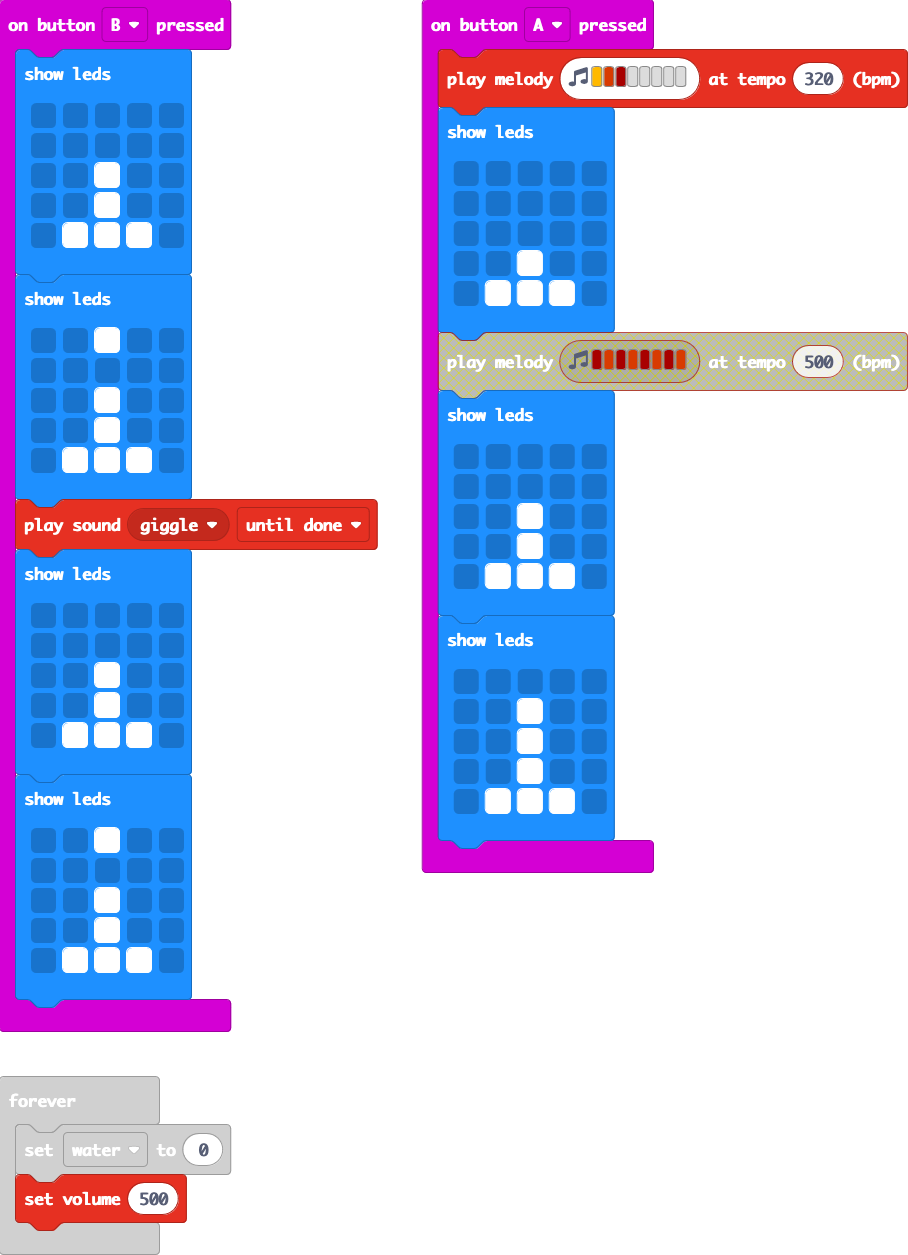
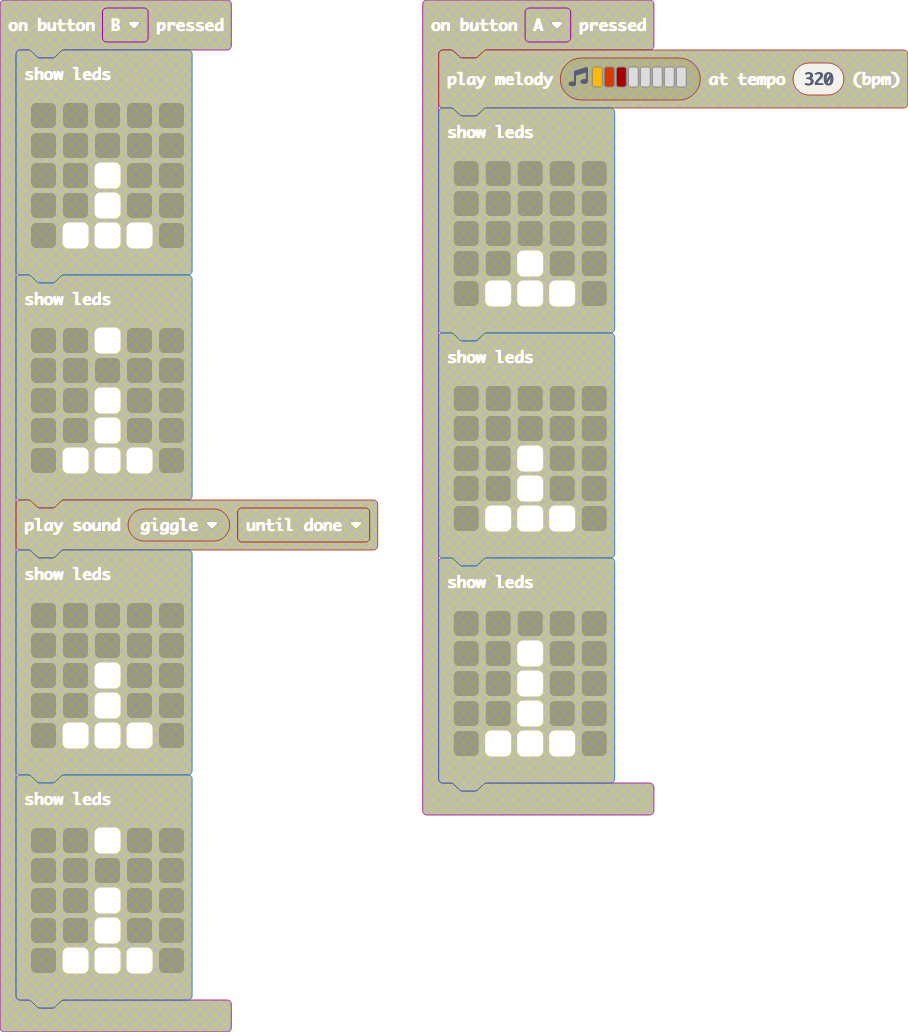
remaking code.

diff --git a/main.ts b/main.ts
@@ -1,59 +1,4 @@
 let water = 0
-input.onButtonPressed(Button.A, function () {
-    music.playMelody("A B C5 - - - - - ", 320)
-    basic.showLeds(`
-        . . . . .
-        . . . . .
-        . . . . .
-        . . # . .
-        . # # # .
-        `)
-    basic.showLeds(`
-        . . . . .
-        . . . . .
-        . . # . .
-        . . # . .
-        . # # # .
-        `)
-    basic.showLeds(`
-        . . . . .
-        . . # . .
-        . . # . .
-        . . # . .
-        . # # # .
-        `)
-})
-input.onButtonPressed(Button.B, function () {
-    basic.showLeds(`
-        . . . . .
-        . . . . .
-        . . # . .
-        . . # . .
-        . # # # .
-        `)
-    basic.showLeds(`
-        . . # . .
-        . . . . .
-        . . # . .
-        . . # . .
-        . # # # .
-        `)
-    music.playSoundEffect(music.builtinSoundEffect(soundExpression.giggle), SoundExpressionPlayMode.UntilDone)
-    basic.showLeds(`
-        . . . . .
-        . . . . .
-        . . # . .
-        . . # . .
-        . # # # .
-        `)
-    basic.showLeds(`
-        . . # . .
-        . . . . .
-        . . # . .
-        . . # . .
-        . # # # .
-        `)
-})
 basic.forever(function () {
     water = 0
     music.setVolume(500)
